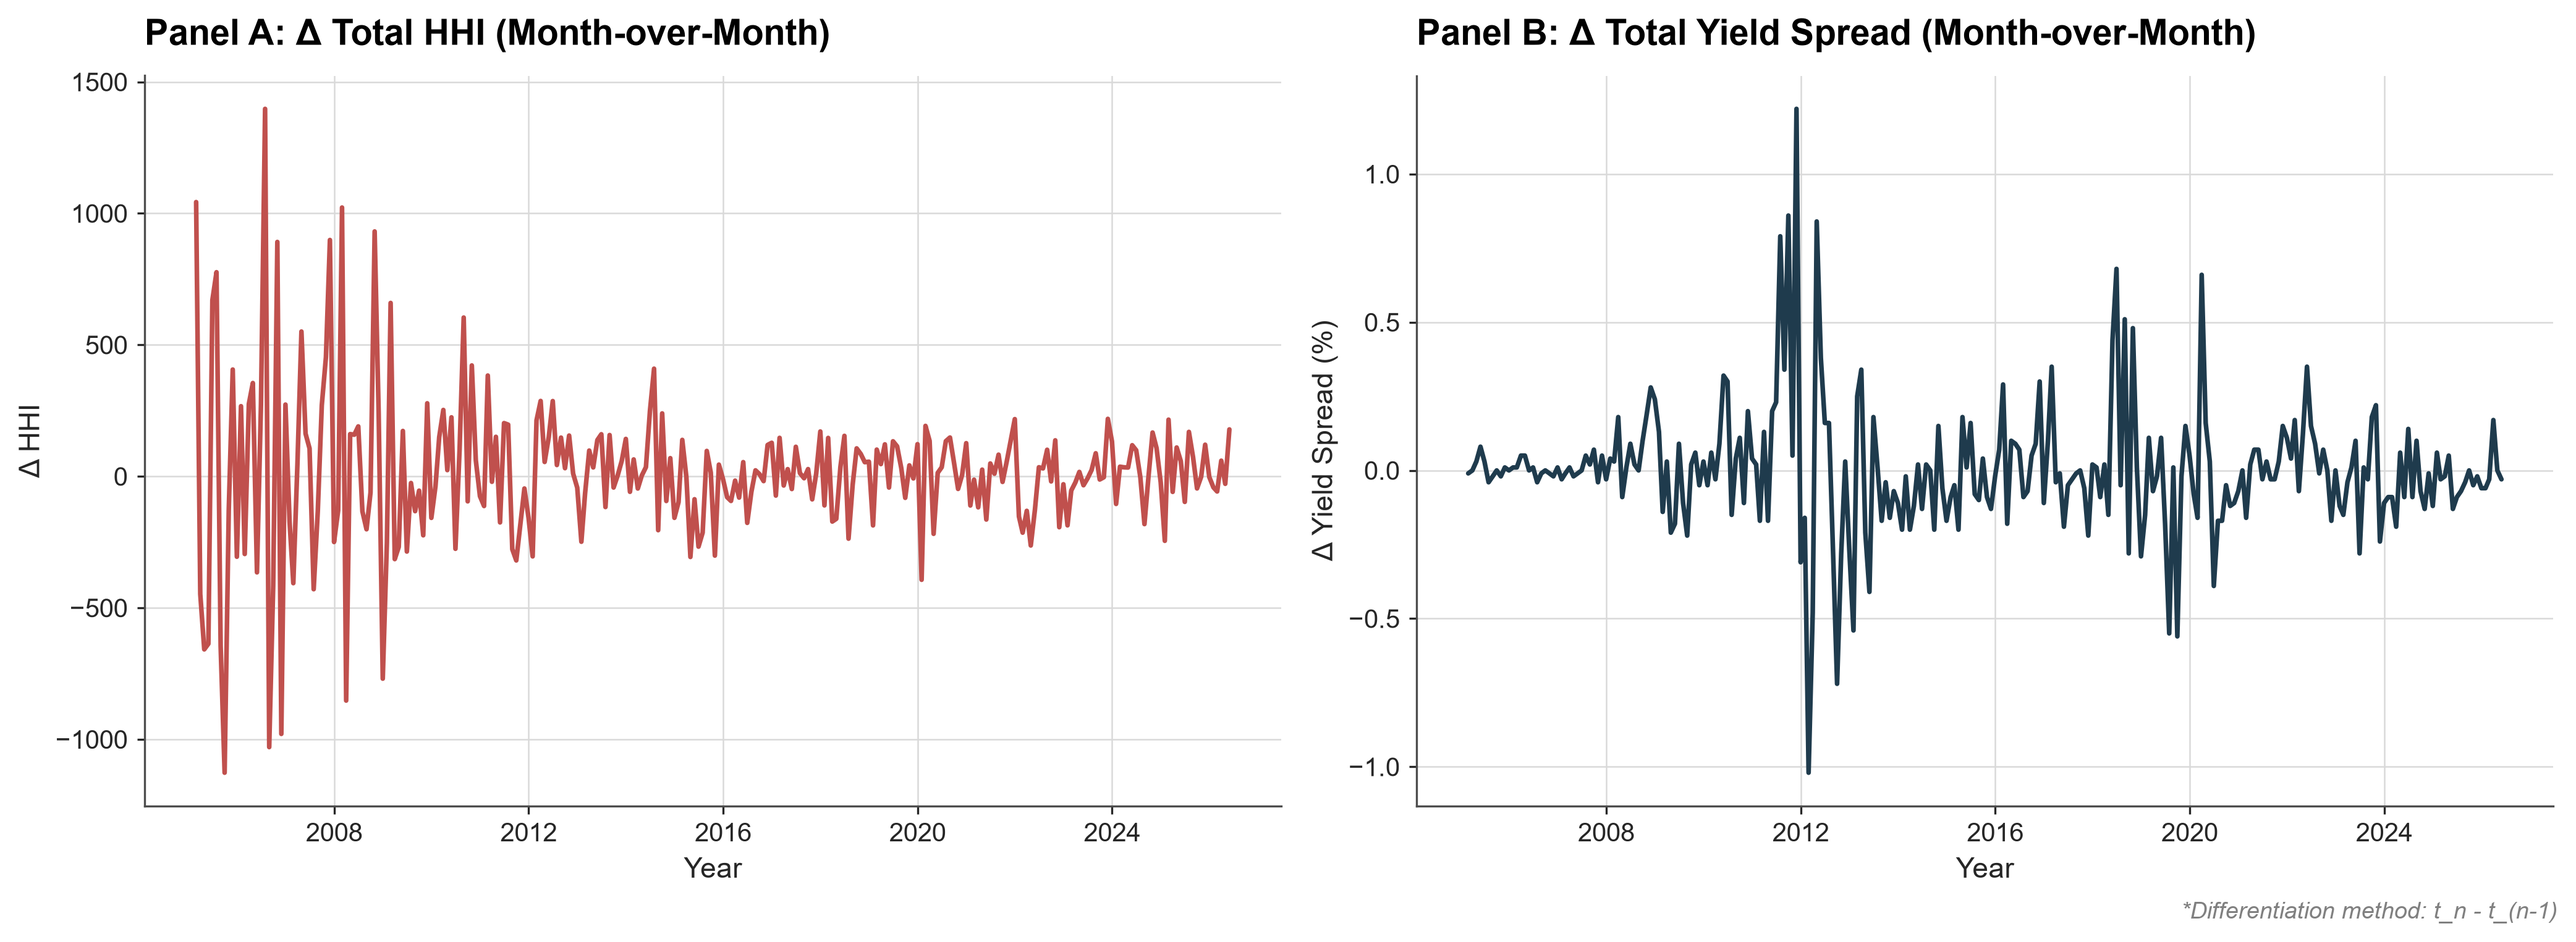
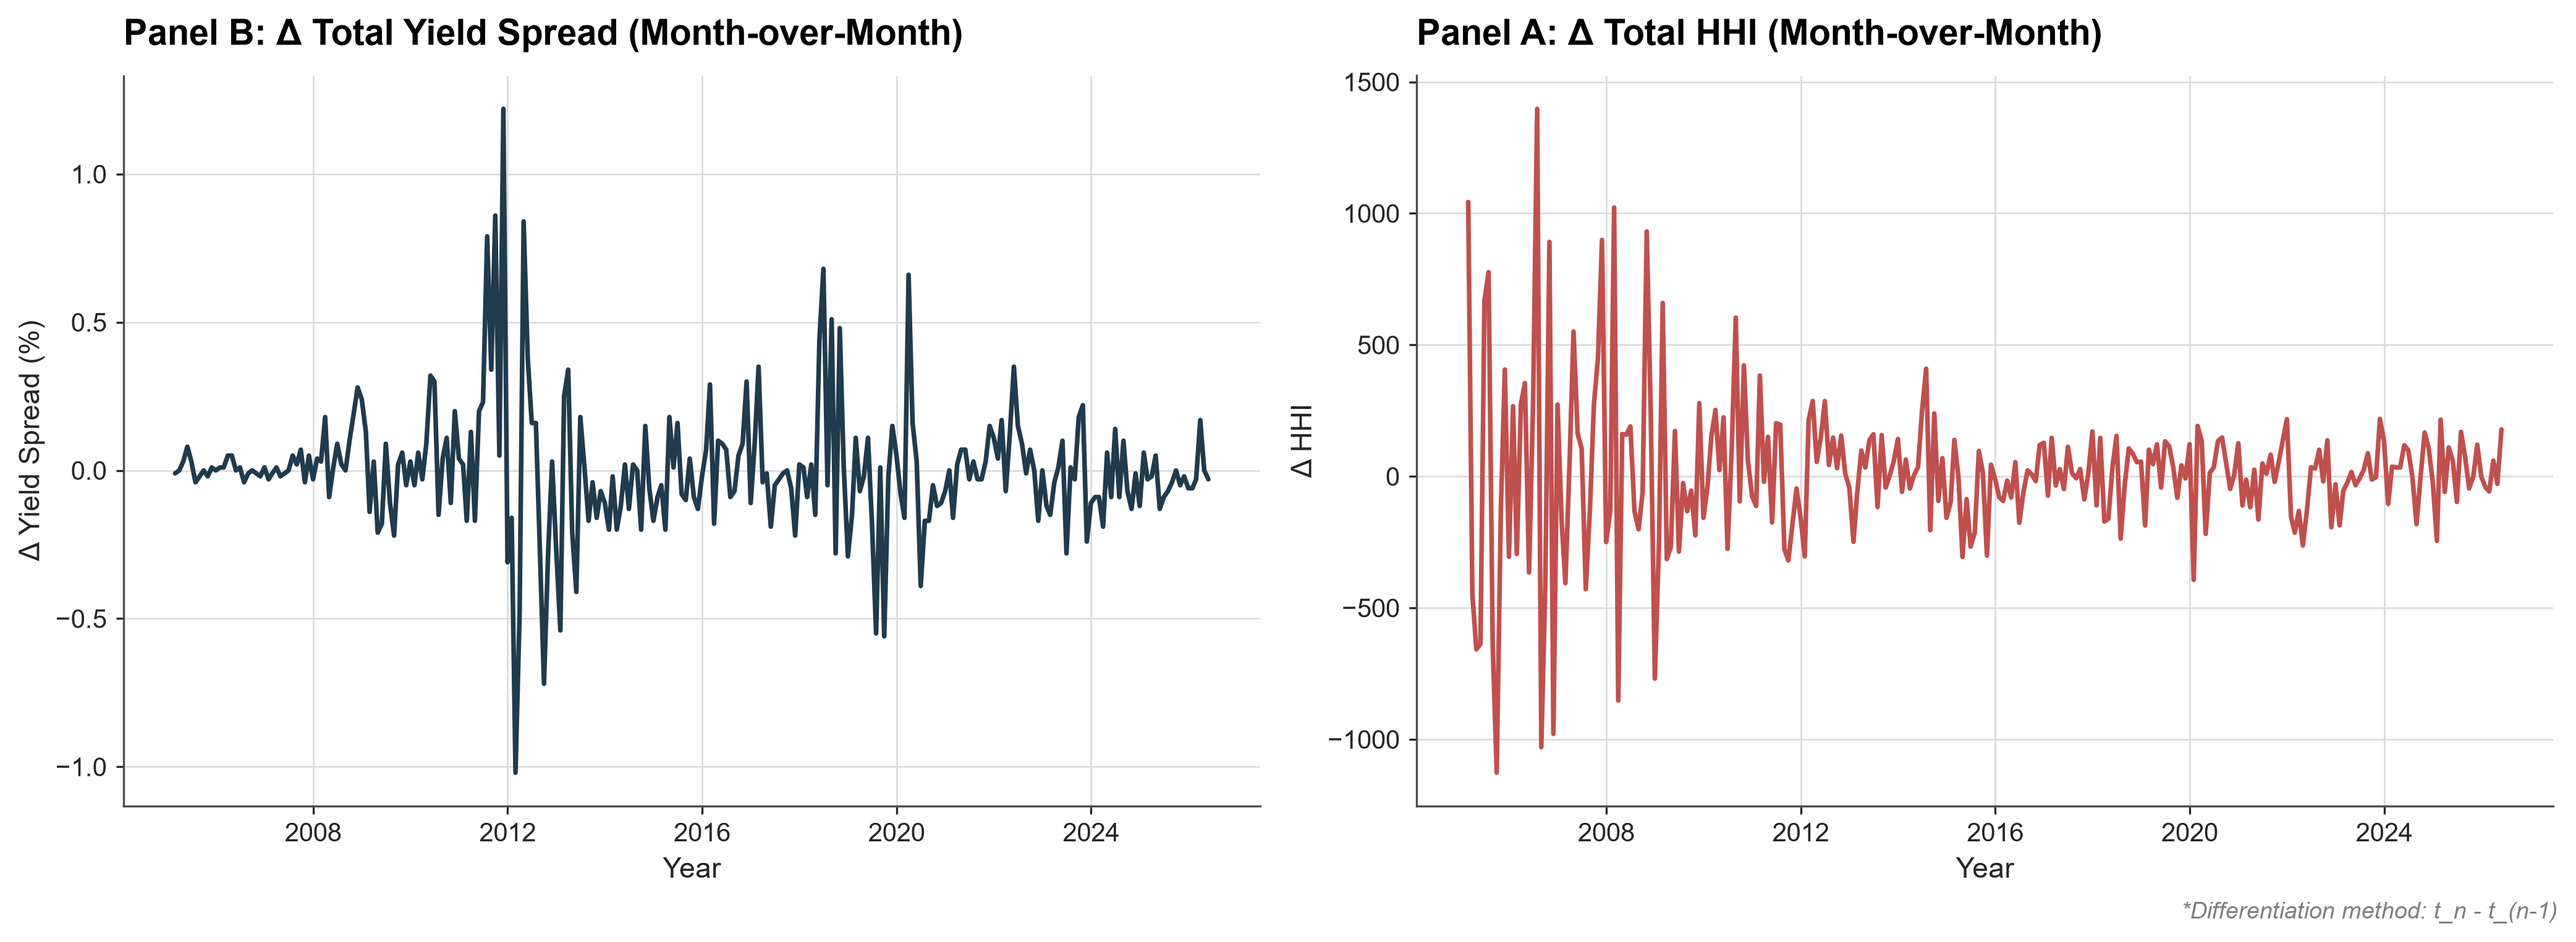
Fixed color-coding

diff --git a/main.py b/main.py
@@ -159,21 +159,21 @@ def main():
     #plot differentiated HHI against yield 
     fig,(ax1,ax2) = plt.subplots(1,2,sharex=True,figsize=(14,5))
     
-    ax1.plot(t_HHI_differentiated.index,t_HHI_differentiated,color='#C0504D',label='Δ HHI')
-    ax1.set_xlabel('Year')
-    ax1.set_ylabel('Δ HHI')
-    ax1.set_title('Panel A: Δ Total HHI (Month-over-Month)')
-    ax2.plot(t_BS_differentiated.index,t_BS_differentiated,label='Δ Yield spread')
+    ax2.plot(t_HHI_differentiated.index,t_HHI_differentiated,color='#C0504D',label='Δ HHI')
     ax2.set_xlabel('Year')
-    ax2.set_ylabel('Δ Yield Spread (%)')
-    ax2.set_title('Panel B: Δ Total Yield Spread (Month-over-Month)')
+    ax2.set_ylabel('Δ HHI')
+    ax2.set_title('Panel A: Δ Total HHI (Month-over-Month)')
+    ax1.plot(t_BS_differentiated.index,t_BS_differentiated,label='Δ Yield spread')
+    ax1.set_xlabel('Year')
+    ax1.set_ylabel('Δ Yield Spread (%)')
+    ax1.set_title('Panel B: Δ Total Yield Spread (Month-over-Month)')
     fig.text(0.99,-0.01,"*Differentiation method: t_n - t_(n-1)",ha="right",va="bottom",fontsize=9,color="gray",style="italic")
     fig.savefig('./charts/HHI_vs_Yield_differentiated.png',dpi=300)
     plt.close(fig)
     fig,ax = plt.subplots()
-
+    
+    ax.plot(rp_non_stationary.index,rp_non_stationary,label='non stationary')
     ax.plot(rp_stationary.index,rp_stationary,label='stationary')
-    ax.plot(rp_non_stationary.index,rp_non_stationary,label='non stationary') #color='#d724bf')
 
     ax.legend()
     ax.set_xlabel(f'Year')
